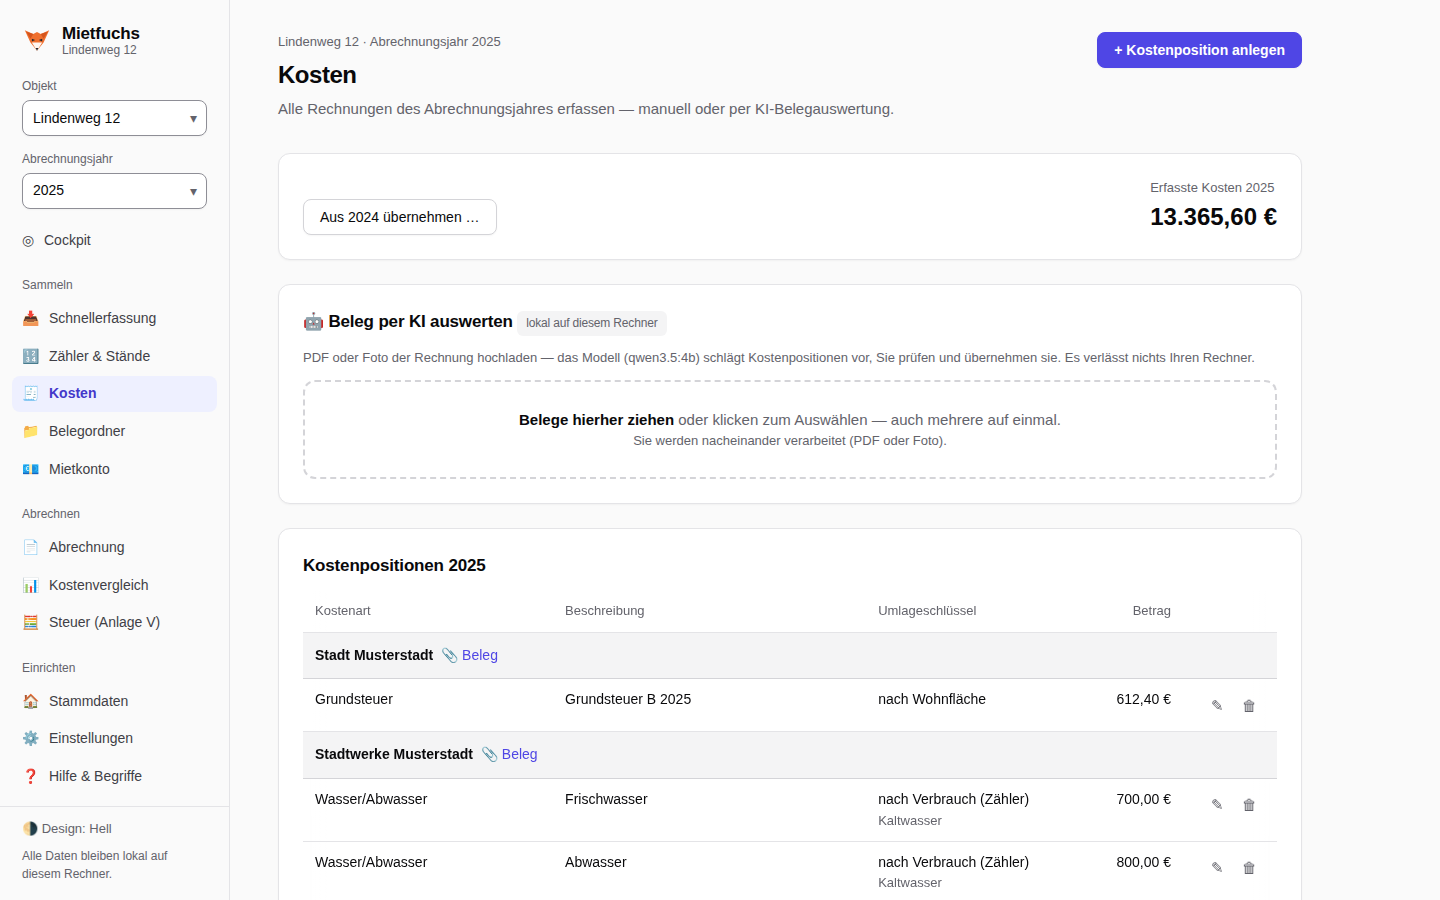
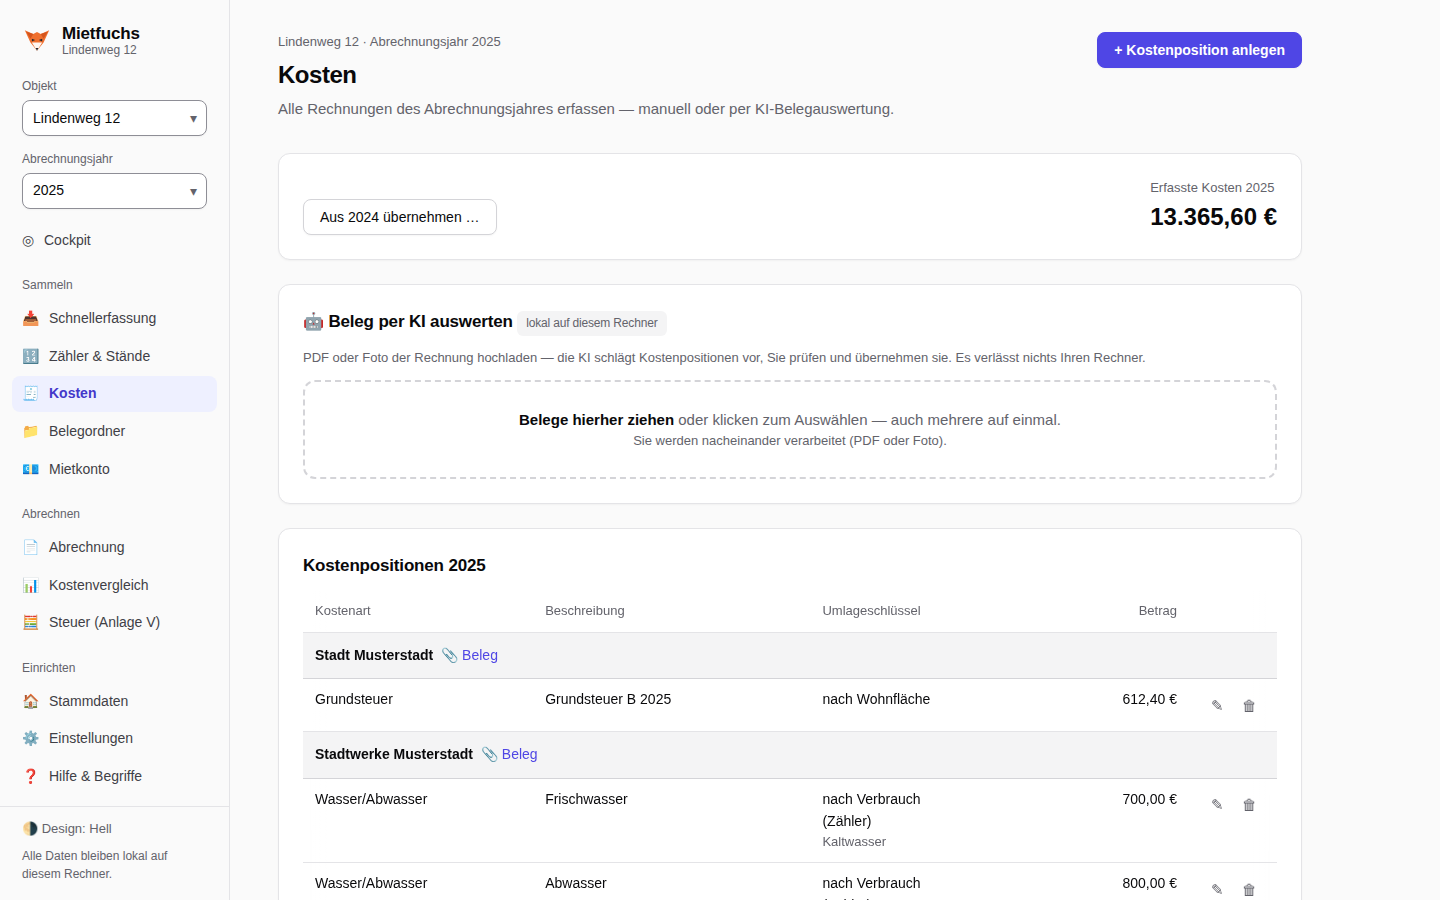
chore(release): v0.12.0 (#413)
* docs: Bildschirmfotos für 0.12.0 neu erzeugt

Claude-Session: https://claude.ai/code/session_01Jt4DUpFobohBVPhmEcX1Nx

* chore(release): v0.12.0

Claude-Session: https://claude.ai/code/session_01Jt4DUpFobohBVPhmEcX1Nx

---------

diff --git a/CHANGELOG.md b/CHANGELOG.md
@@ -6,6 +6,8 @@ Alle nennenswerten Änderungen an Mietfuchs. Das Format orientiert sich an
 
 ## [Unveröffentlicht]
 
+## [0.12.0] – 2026-10-22
+
 ### Hinzugefügt
 
 - Nicht vereinbarte Betriebskosten trägt der Vermieter ([#258](https://github.com/speedone/mietfuchs/issues/258)):
@@ -2730,7 +2732,8 @@ Verteilung nach Wohnfläche, Personenzahl, Wohneinheiten, Verbrauch oder Direktz
 druckfertige Abrechnung je Mieter, Mietkonto, Steuerübersicht für die Anlage V, optionale
 KI-Belegauswertung gegen eine lokale Ollama-Instanz, Backup und Wiederherstellung.
 
-[Unveröffentlicht]: https://github.com/speedone/mietfuchs/compare/v0.11.3...HEAD
+[Unveröffentlicht]: https://github.com/speedone/mietfuchs/compare/v0.12.0...HEAD
+[0.12.0]: https://github.com/speedone/mietfuchs/compare/v0.11.3...v0.12.0
 [0.11.3]: https://github.com/speedone/mietfuchs/compare/v0.11.2...v0.11.3
 [0.11.2]: https://github.com/speedone/mietfuchs/compare/v0.11.1...v0.11.2
 [0.11.1]: https://github.com/speedone/mietfuchs/compare/v0.11.0...v0.11.1
